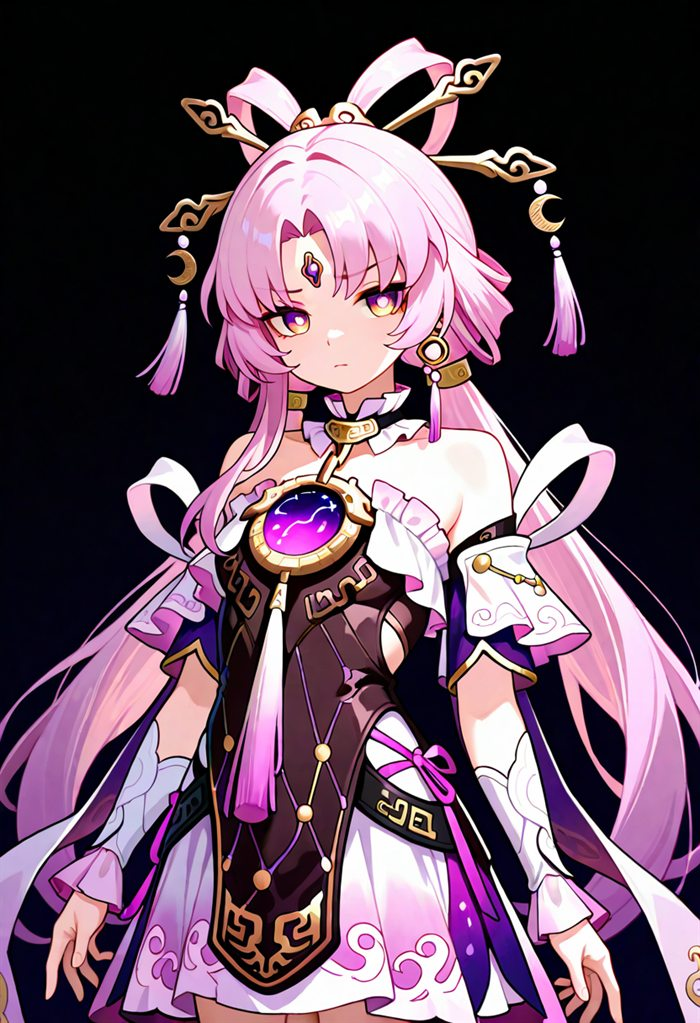
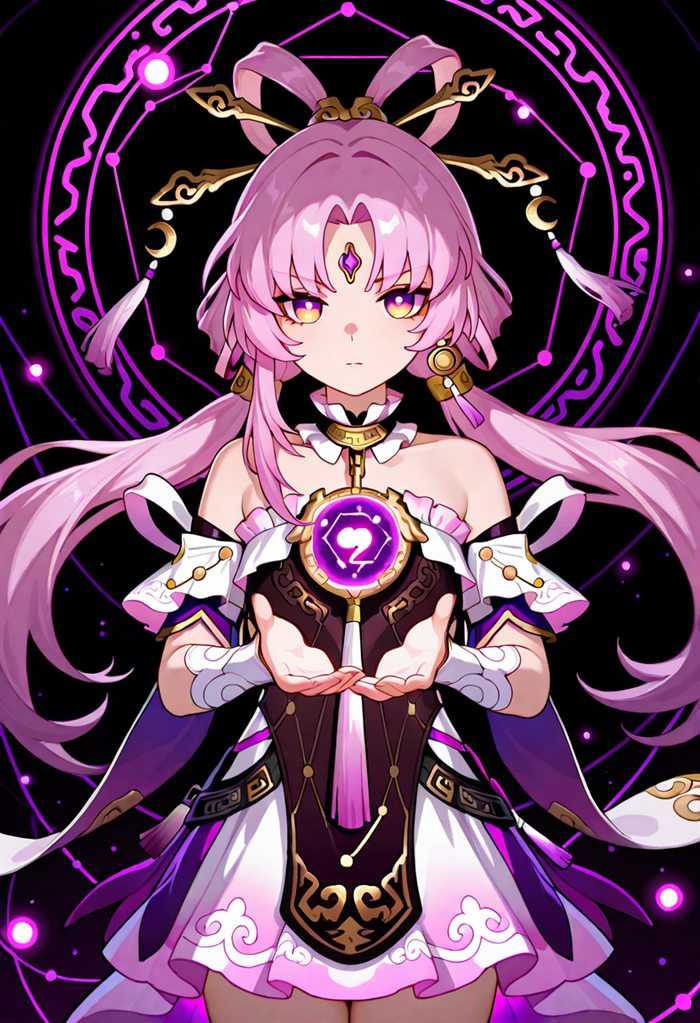
Warm Herta hair, add Fu Xuan matrix background, refresh social card
Herta re-generated toward a warm grey-tan rather than near-white.
Fu Xuan gains a glowing divination array behind her, matching the
starfields on the other two cards. Horizon line now fades to fully
transparent through the centre so it can never cross body text at
short viewport heights. Social preview re-shot from the current design.

diff --git a/index.html b/index.html
@@ -99,8 +99,8 @@ transform:perspective(520px) rotateX(64deg);transform-origin:50% 100%;
 -webkit-mask-image:linear-gradient(to top,#000 0%,rgba(0,0,0,.45) 38%,transparent 72%);
 mask-image:linear-gradient(to top,#000 0%,rgba(0,0,0,.45) 38%,transparent 72%)}
 .bghz{position:fixed;left:0;right:0;bottom:17vh;height:1px;z-index:-3;pointer-events:none;
-background:linear-gradient(90deg,transparent,rgba(255,61,165,.55) 22%,rgba(34,211,238,.55) 78%,transparent);
-box-shadow:0 0 22px 3px rgba(255,61,165,.16)}
+background:linear-gradient(90deg,transparent 0%,rgba(255,61,165,.5) 10%,rgba(255,61,165,.10) 27%,transparent 42%,transparent 58%,rgba(34,211,238,.10) 73%,rgba(34,211,238,.5) 90%,transparent 100%);
+box-shadow:0 0 18px 2px rgba(255,61,165,.10)}
 .bgscan{position:fixed;inset:0;z-index:-1;pointer-events:none;opacity:.5;
 background:repeating-linear-gradient(0deg,rgba(190,225,255,.028) 0 1px,transparent 1px 3px)}
 .bgpat{position:fixed;inset:0;width:100%;height:100%;z-index:-2;opacity:.065;pointer-events:none}
